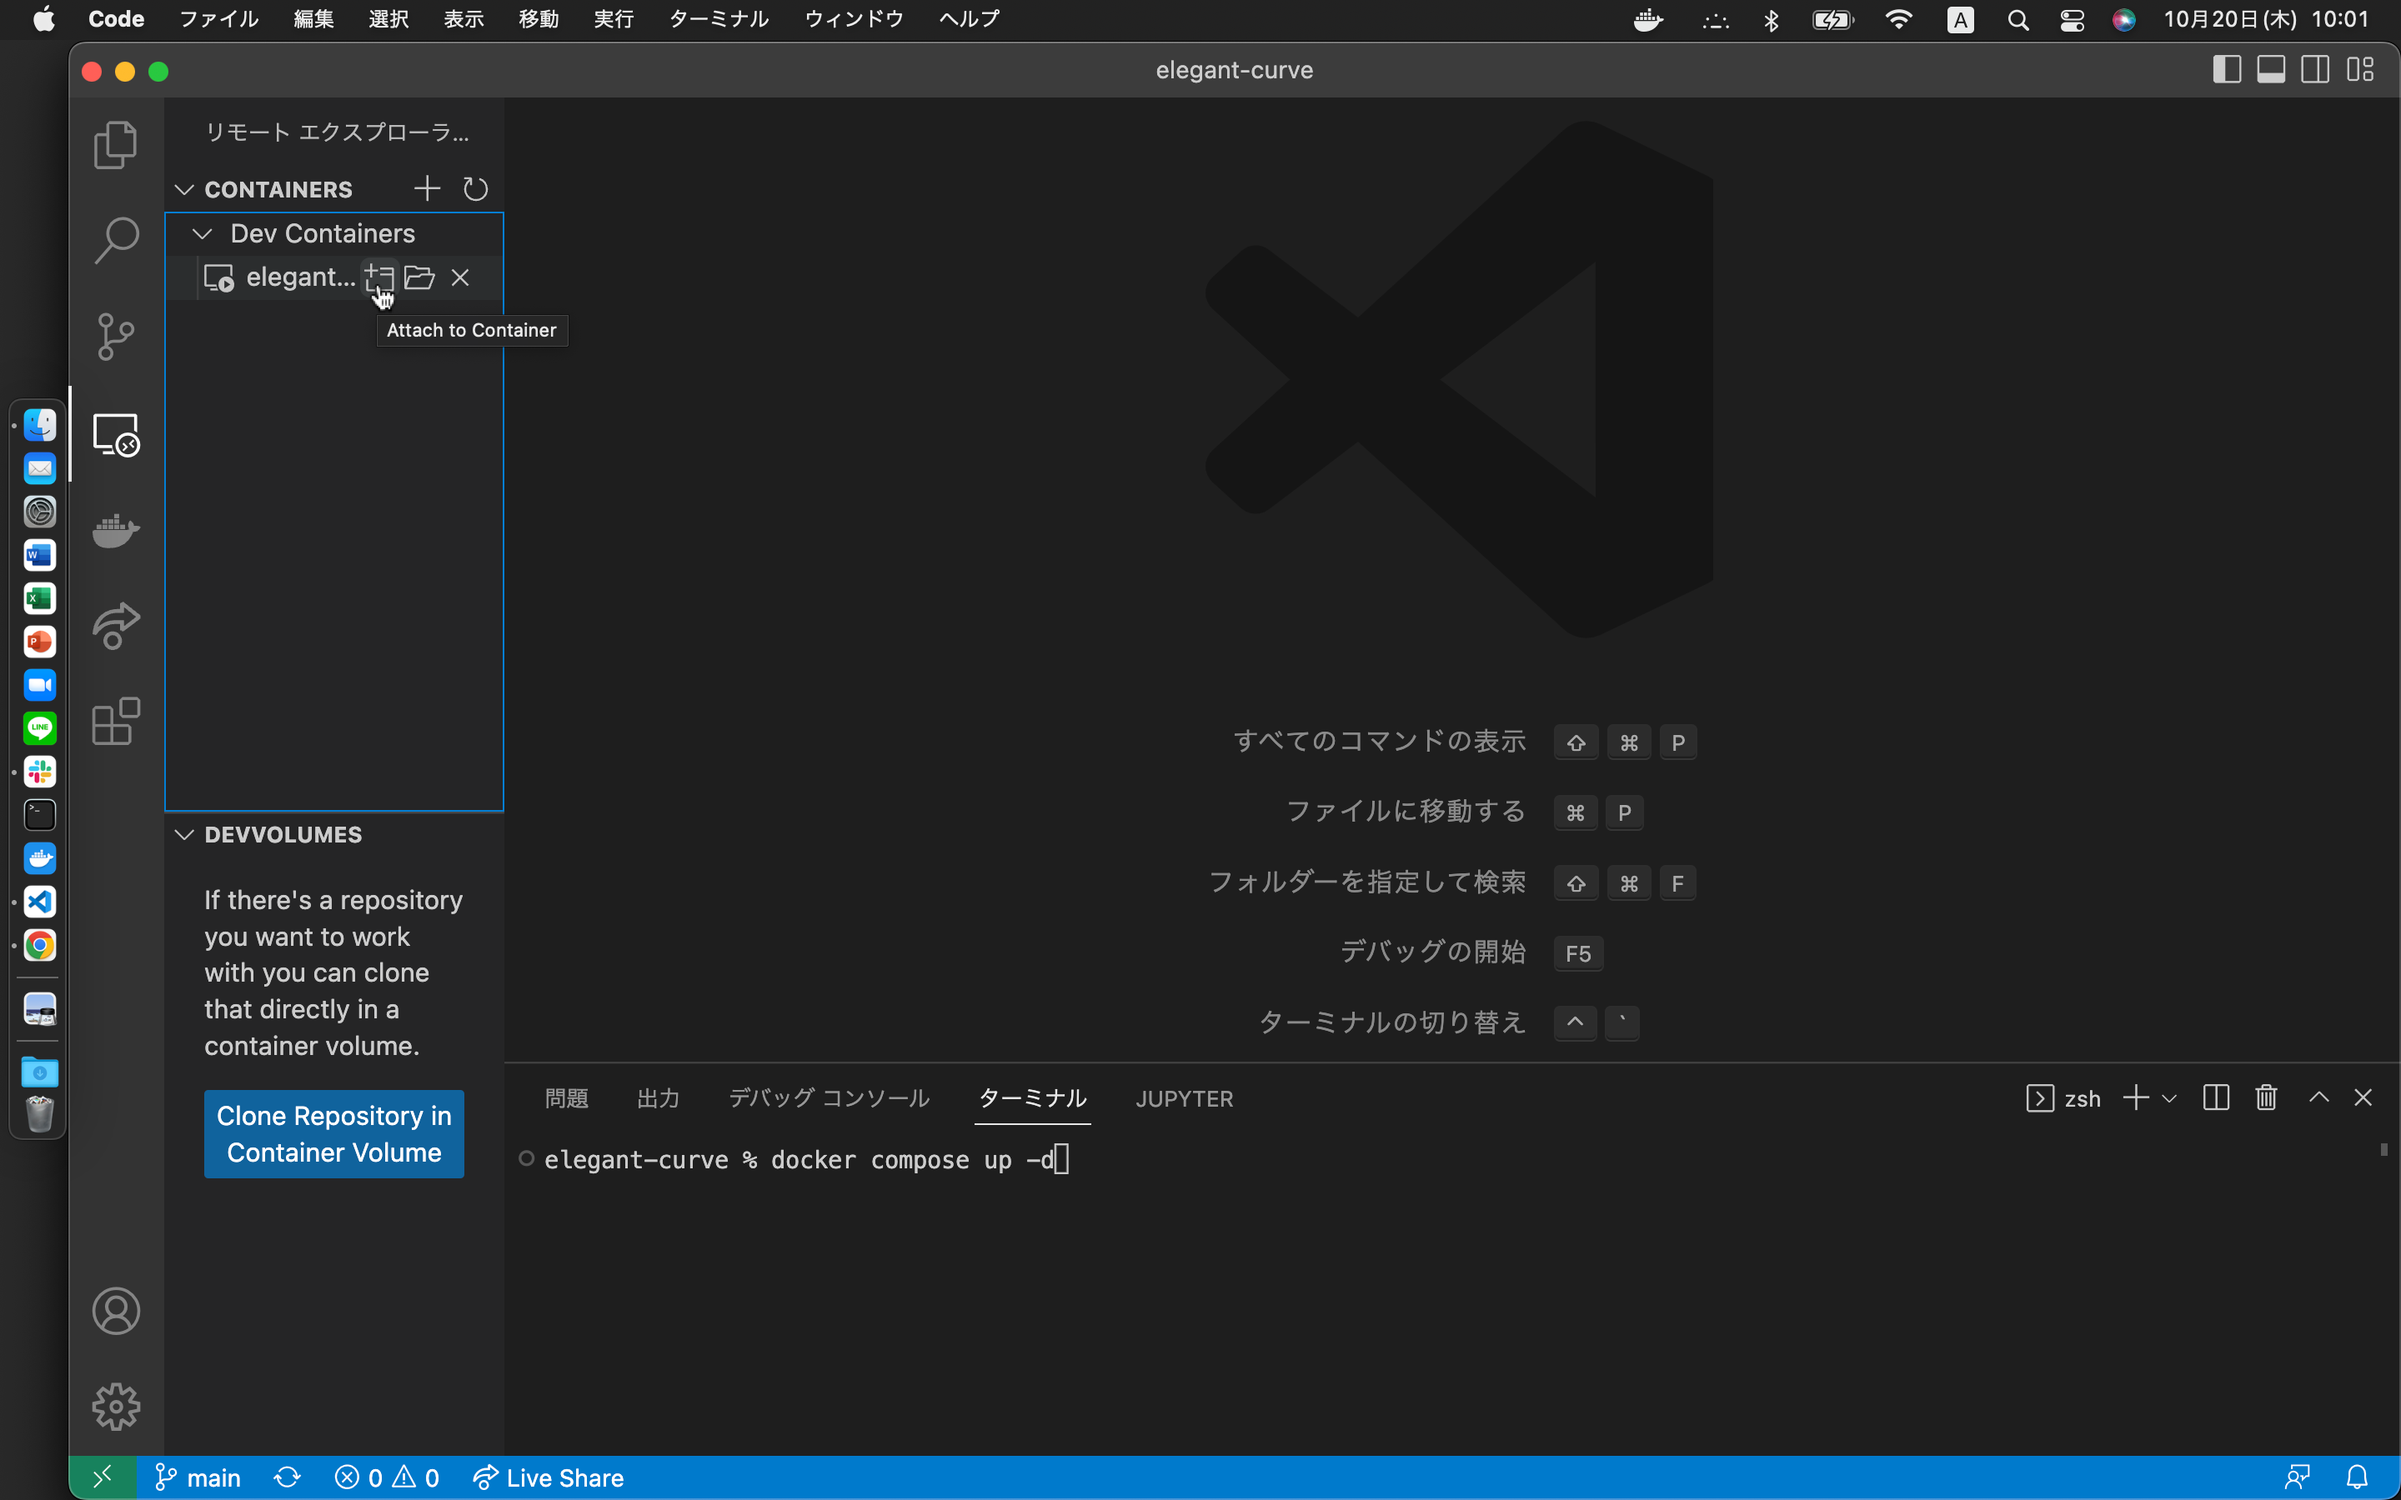
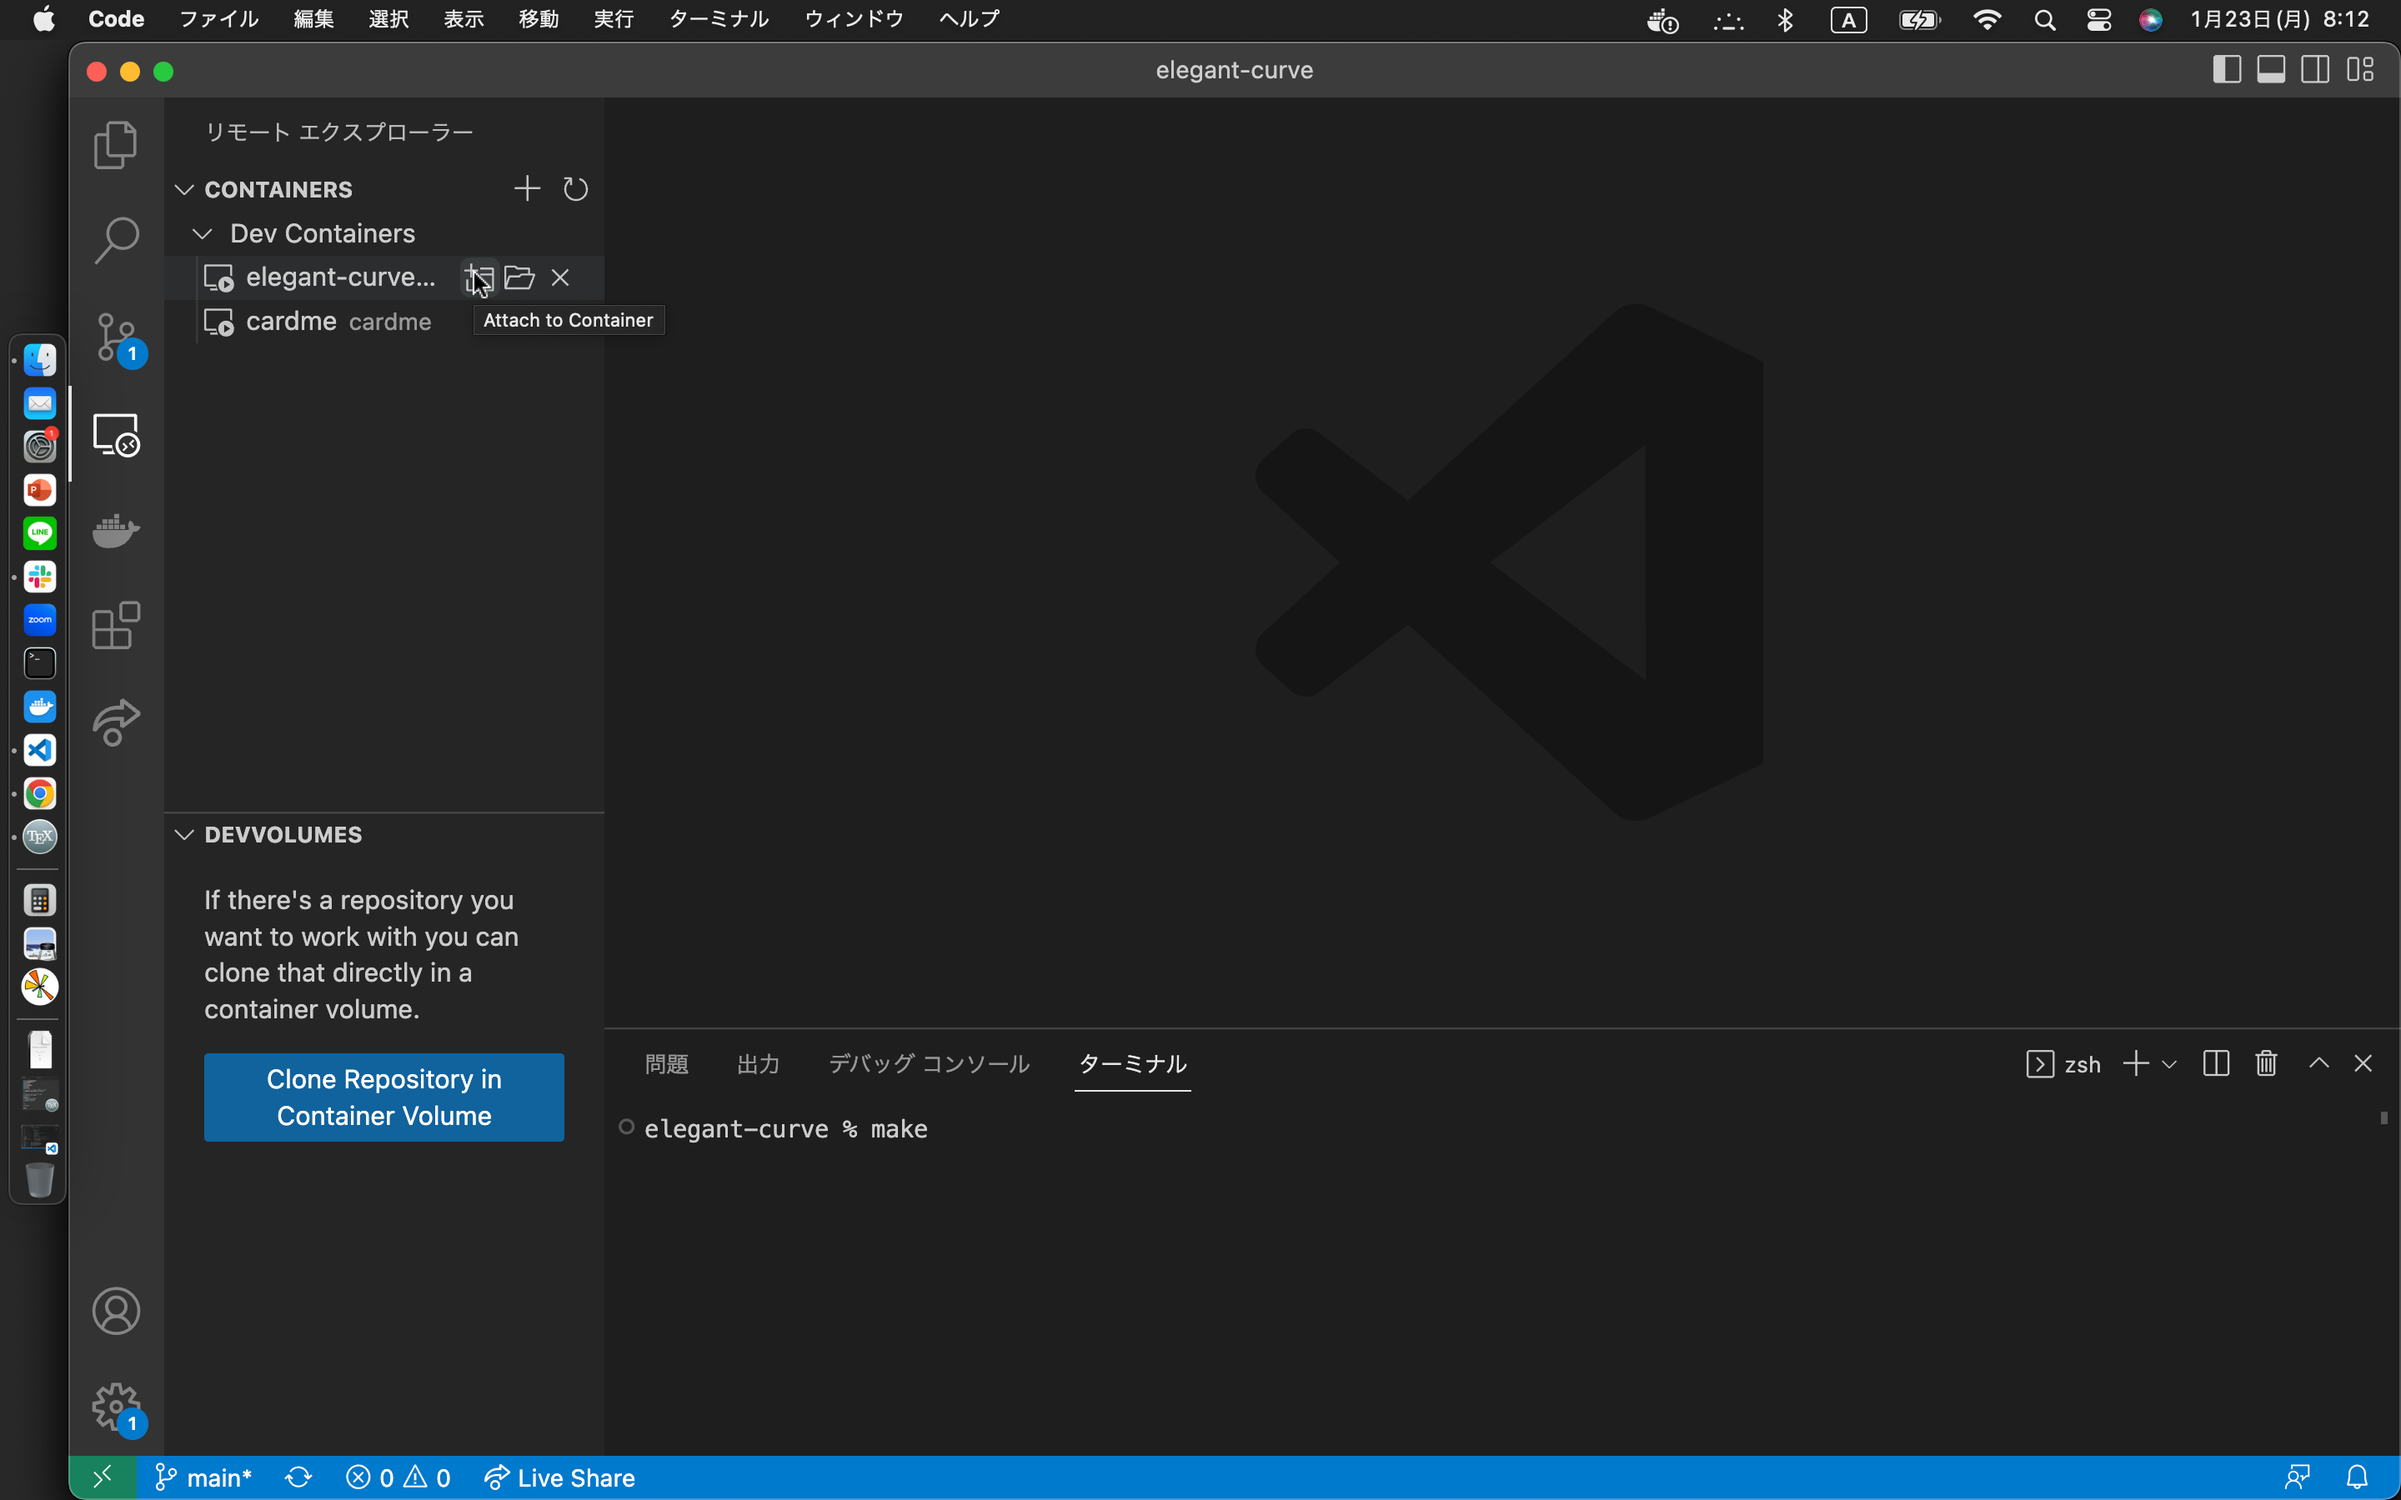
update readme

diff --git a/README.md b/README.md
@@ -4,21 +4,6 @@
 >https://qiita.com/chihiro-yabuta/items/72e4a1869e9196ca9a67
 
 ## 詳細な説明が必要な方（上田研の方
-### Step0: csvファイル、ディレクトリを準備しましょう
-下記に従って用意して下さい<br>
-データの準備の仕方は先輩や先生に聞いて下さい
-
-<pre>
-.
-├── archive
-│   ├── *.csv (実行されないファイルです 直接置いてもいいですが、その場合 .gitignoreを追記する必要があります)
-├── csv
-│   ├── *.csv (実行されるファイルです)
-├── json
-│   ├── *.json (jsonファイルがここに出力されます)
-├── result
-│   ├── *.json (評価結果がここに出力されます)
-</pre>
 
 ### Step1: docker をインストールしましょう
 ここからdockerをインストールします
@@ -53,12 +38,24 @@ git clone https://github.com/chihiro-yabuta/elegant-curve.git
 cloneしたディレクトリを開いて
 
 ```
-docker compose up -d
+make
 ```
 
 を叩きましょう
 
 ![build](git/build.png)
+
+また、以下のようなディレクトリが出来ているのでinputに実行したいcsvを入れましょう
+
+<pre>
+.
+├── archive
+│   ├── * (計算過程のデータが格納されます)
+├── input
+│   ├── *.csv (実行されるファイルです)
+├── output
+│   ├── *.csv (結果がここに出力されます)
+</pre>
 
 立ち上がったらcontainerにattachしましょう
 
